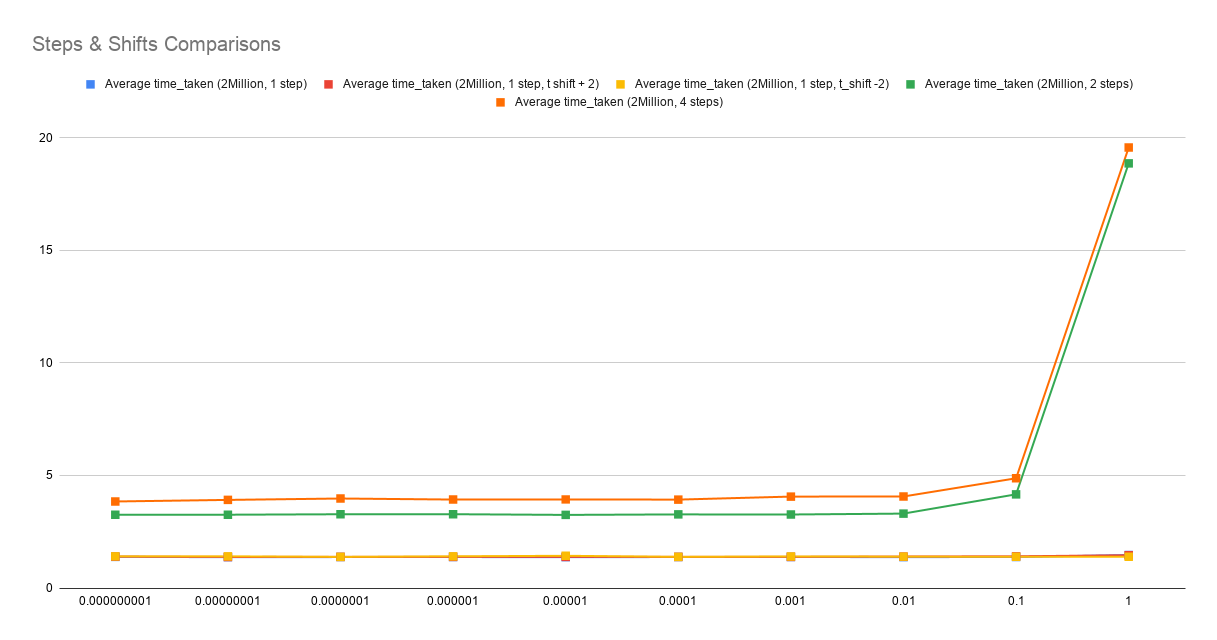
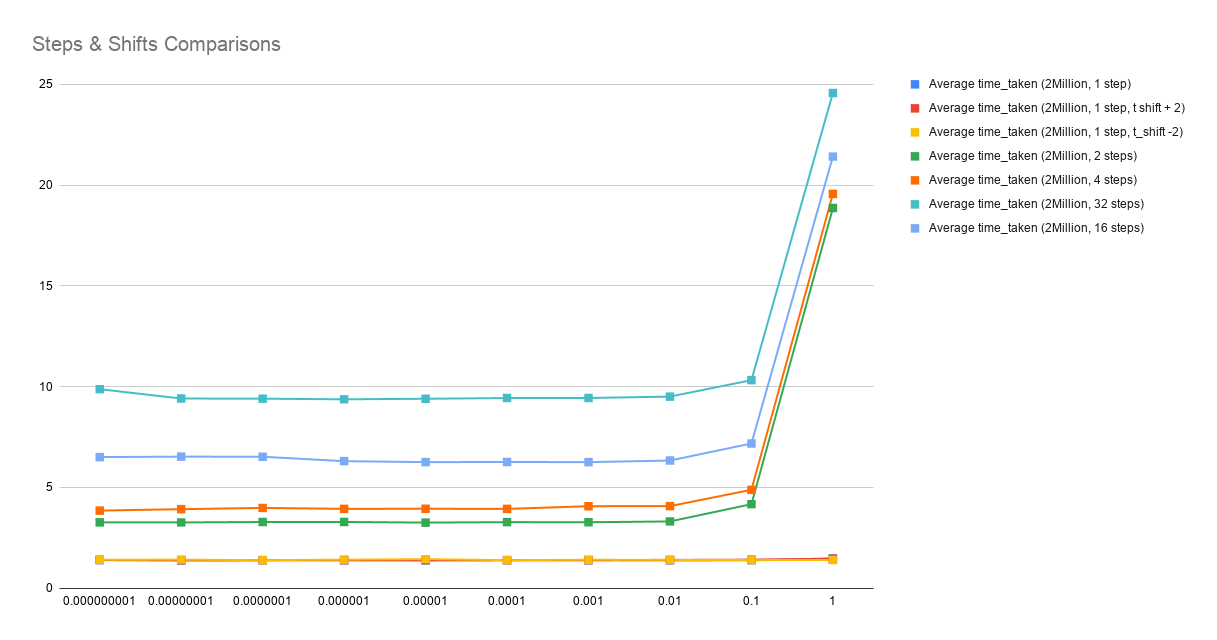
more benchmark data on timesteps and time shifts

diff --git a/motion_calculation/calc.py b/motion_calculation/calc.py
@@ -2,6 +2,7 @@ import numpy as np
 
 from galpy.orbit import Orbit
 from galpy.potential import MWPotential2014
+import time
 
 def integrate_orbits(
     ra, dec, dist_kpc, pmra, pmdec, radial_velocity,
@@ -9,22 +10,26 @@ def integrate_orbits(
     t_end_gyr,
     n_timesteps=100,    
 ):
+    
+    now = time.time()
     # dist(kpc) = sqrt(x^2+y^2+z^2) / 1000
     # vxvv: [RA(deg), Dec(deg), dist(kpc), pmRA(mas/yr), pmDec(mas/yr), Vlos(km/s)]
     vxvv = np.column_stack([ra, dec, dist_kpc, pmra, pmdec, radial_velocity])
 
     o = Orbit(vxvv, radec=True, ro=8., vo=220.)
+    print(f"A: Curr: {time.time() - now}")
 
     time_range  = np.linspace(t_start_gyr, t_end_gyr, n_timesteps)
 
     o.integrate(time_range,  MWPotential2014, method='dop853_c')
-
+    print(f"B: Curr: {time.time() - now}")
     times_gyr = o.t
 
     # o.x(), o.y(), o.z() return (n_stars, n_timesteps) after batch integration
     x = o.x(times_gyr)
     y = o.y(times_gyr)
     z = o.z(times_gyr)
+    print(f"C: Curr: {time.time() - now}")
 
     # Convert galactocentric -> heliocentric
     # Sun is at (-ro, 0, 0) in galpy's convention
@@ -35,6 +40,7 @@ def integrate_orbits(
     x = x - sun_x
     y = y - sun_y
     z = z - sun_z
+    print(f"D: Curr: {time.time() - now}")
 
     return times_gyr, x, y, z, o
 
@@ -164,14 +170,14 @@ def validate_orbits(o, x, y, z, times_gyr, ra, dec, dist_kpc):
 
     print("\n=== Validation Complete ===")
 
-import time
+
 from sys import getsizeof
 
 def speed_test(ra, dec, dist_kpc, pmra, pmdec, radial_velocity, output_string, t_start, t_end, n_timesteps):
     # Fake star data roughly resembling nearby Gaia stars
     
     # n_timesteps = 4
-    # print("Integrating orbits...")
+    print("Integrating orbits...")
     start = time.time()
     times_gyr, x, y, z, o = integrate_orbits(
         ra, dec, dist_kpc, pmra, pmdec, radial_velocity,
@@ -180,12 +186,12 @@ def speed_test(ra, dec, dist_kpc, pmra, pmdec, radial_velocity, output_string, t
         n_timesteps=n_timesteps,
     )
     time_taken = time.time() - start
-    # print(f"{n_timesteps=}")
-    # print(f"Done, time taken: {time_taken}")
-    # print(output_string)
-    # print(f"Trajectory shape: {x.shape}")  # expect (n_stars, 199)
-    # print(f"{3*getsizeof(x)=}")
-    # print("\n\n")
+    print(f"{n_timesteps=}")
+    print(f"Done, time taken: {time_taken}")
+    print(output_string)
+    print(f"Trajectory shape: {x.shape}")  # expect (n_stars, 199)
+    print(f"{3*getsizeof(x)=}")
+    print("\n\n")
 
     return time_taken
 
@@ -217,9 +223,12 @@ def benchmark(n_timesteps):
 
 def main():
 
+    print("8")
     benchmark(8)
-    benchmark(16)
-    benchmark(32)
+    # print("\n\n, 16")
+    # benchmark(16)
+    # print("\n\n, 32")
+    # benchmark(32)
 
 
     # Test position lookup at a few times

diff --git a/Documentation/benchmarks.md b/Documentation/benchmarks.md
@@ -54,18 +54,22 @@ Ex. t_end = 0.1, 5 timesteps generated from 0 to 0.5
 ### 2 Million Stars, Compare Shifts and Step 1,2,4
 
 ![Steps/Shifts Comparison](./Steps%20&%20Shifts%20Comparisons.png)
-|       t_end | Average time_taken (2Million, 1 step) | Average time_taken (2Million, 1 step, t shift + 2) | Average time_taken (2Million, 1 step, t_shift -2) | Average time_taken (2Million, 2 steps) | Average time_taken (2Million, 4 steps) |
-| ----------: | ------------------------------------: | -------------------------------------------------: | ------------------------------------------------: | -------------------------------------: | -------------------------------------: |
-| 0.000000001 |                                1.3834 |                                             1.3938 |                                       1.403595591 |                            3.255156422 |                            3.842557001 |
-|  0.00000001 |                                1.3690 |                                             1.3788 |                                       1.406479502 |                            3.254553604 |                            3.912492561 |
-|   0.0000001 |                                1.3744 |                                             1.3812 |                                       1.382572079 |                            3.275227594 |                            3.974252415 |
-|    0.000001 |                                1.3749 |                                             1.3819 |                                       1.406913471 |                             3.27682786 |                             3.92817626 |
-|     0.00001 |                                1.3713 |                                             1.3802 |                                        1.43025713 |                            3.246943235 |                            3.932993412 |
-|      0.0001 |                                1.3749 |                                             1.3826 |                                       1.383241367 |                            3.267659855 |                             3.92597537 |
-|       0.001 |                                1.3753 |                                             1.3828 |                                       1.401276207 |                            3.264143133 |                            4.059873199 |
-|        0.01 |                                1.3728 |                                             1.3958 |                                        1.39389863 |                            3.303942537 |                            4.063896704 |
-|         0.1 |                                1.3757 |                                             1.4073 |                                       1.385934114 |                            4.159876394 |                             4.87308917 |
-|           1 |                                1.4642 |                                             1.4544 |                                        1.38934803 |                            18.85924973 |                            19.56199803 |
+
+### Markdown Table
+
+|       t_end | Average time_taken (2Million, 1 step) | Average time_taken (2Million, 1 step, t shift + 2) | Average time_taken (2Million, 1 step, t_shift -2) | Average time_taken (2Million, 2 steps) | Average time_taken (2Million, 4 steps) | Average time_taken (2Million, 8 steps) | Average time_taken (2Million, 16 steps) | Average time_taken (2Million, 32 steps) |
+| ----------: | ------------------------------------: | -------------------------------------------------: | ------------------------------------------------: | -------------------------------------: | -------------------------------------: | -------------------------------------: | --------------------------------------: | --------------------------------------: |
+| 0.000000001 |                                1.3834 |                                             1.3938 |                                       1.403595591 |                            3.255156422 |                            3.842557001 |                            4.713445807 |                             6.498007393 |                             9.868268919 |
+|  0.00000001 |                                 1.369 |                                             1.3788 |                                       1.406479502 |                            3.254553604 |                            3.912492561 |                             4.83469758 |                             6.520039034 |                             9.405585575 |
+|   0.0000001 |                                1.3744 |                                             1.3812 |                                       1.382572079 |                            3.275227594 |                            3.974252415 |                            4.737000608 |                             6.514193201 |                             9.396988297 |
+|    0.000001 |                                1.3749 |                                             1.3819 |                                       1.406913471 |                             3.27682786 |                             3.92817626 |                            4.752181959 |                             6.295022249 |                             9.365447235 |
+|     0.00001 |                                1.3713 |                                             1.3802 |                                        1.43025713 |                            3.246943235 |                            3.932993412 |                            4.785920143 |                             6.248439503 |                             9.393179274 |
+|      0.0001 |                                1.3749 |                                             1.3826 |                                       1.383241367 |                            3.267659855 |                             3.92597537 |                            4.866756439 |                              6.25447011 |                              9.42825098 |
+|       0.001 |                                1.3753 |                                             1.3828 |                                       1.401276207 |                            3.264143133 |                            4.059873199 |                            4.877811909 |                             6.247785616 |                             9.431434059 |
+|        0.01 |                                1.3728 |                                             1.3958 |                                        1.39389863 |                            3.303942537 |                            4.063896704 |                             4.77941227 |                             6.326437521 |                             9.500870466 |
+|         0.1 |                                1.3757 |                                             1.4073 |                                       1.385934114 |                            4.159876394 |                             4.87308917 |                            5.668350887 |                             7.172400284 |                              10.3154161 |
+|           1 |                                1.4642 |                                             1.4544 |                                        1.38934803 |                            18.85924973 |                            19.56199803 |                            20.32872915 |                             21.41473475 |                             24.57249374 |
+
 
 ### Conclusions
 
@@ -73,6 +77,9 @@ Ex. t_end = 0.1, 5 timesteps generated from 0 to 0.5
 - Very notable time cost increase from 0.01 to 0.1 Gyr.
 - No gain from partitioning the data from 2 Million stars to sets of X stars
 - Shifting time along the time line doesn't affect integration cost.
-    - This means I don't have to save previous integrations to optimize future intregrations.
+    - No point in using data closer to the integration target time range
+- Significant jump from 1 timestep to 2 timestep integration
+    - Might be worth integrating 1 timestep at a time
+
 
 
